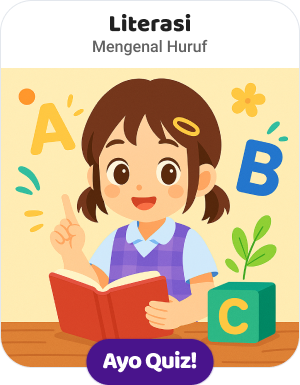
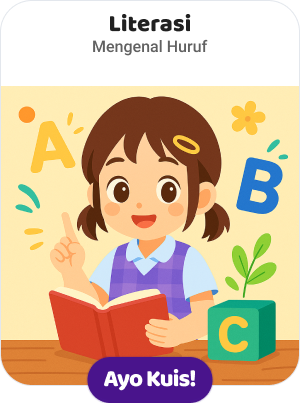
fix: update quiz terminology from "quiz" to "kuis" for consistency

diff --git a/lib/module/quiz/view/quiz_view.dart b/lib/module/quiz/view/quiz_view.dart
@@ -42,8 +42,7 @@ class QuizView extends StatefulWidget {
                       children: [
                         InkWell(
                           onTap: () {
-                            SoundUtils.playSoundWithoutWaiting(
-                                MediaRes.audio.click);
+                            SoundUtils.playSoundWithoutWaiting(MediaRes.audio.click);
                             showDialogBase(
                               maxWidth: 600,
                               barrierDismissible: true,
@@ -58,7 +57,7 @@ class QuizView extends StatefulWidget {
                         ),
                         const Spacer(),
                         Text(
-                          "Quiz!",
+                          "Kuis!",
                           style: GoogleFonts.balsamiqSans(
                             fontSize: 90,
                             fontWeight: FontWeight.bold,
@@ -72,8 +71,7 @@ class QuizView extends StatefulWidget {
                               children: [
                                 InkWell(
                                   onTap: () {
-                                    SoundUtils.playSoundWithoutWaiting(
-                                        MediaRes.audio.click);
+                                    SoundUtils.playSoundWithoutWaiting(MediaRes.audio.click);
                                     showDialogBase(
                                       maxWidth: 1548,
                                       barrierDismissible: true,
@@ -118,8 +116,7 @@ class QuizView extends StatefulWidget {
                                 color: blue700,
                                 width: 1,
                               ),
-                              borderRadius:
-                                  const BorderRadius.all(Radius.circular(12)),
+                              borderRadius: const BorderRadius.all(Radius.circular(12)),
                             ),
                             padding: const EdgeInsets.all(12),
                             child: Center(
@@ -163,10 +160,8 @@ class QuizView extends StatefulWidget {
                               Expanded(
                                 child: _jawaban(
                                   context,
-                                  onTap: () =>
-                                      controller.selectAnswer(answer.jawabanA),
-                                  isSelected:
-                                      controller.isSelected(answer.jawabanA),
+                                  onTap: () => controller.selectAnswer(answer.jawabanA),
+                                  isSelected: controller.isSelected(answer.jawabanA),
                                   value: answer.jawabanA,
                                 ),
                               ),
@@ -174,10 +169,8 @@ class QuizView extends StatefulWidget {
                               Expanded(
                                 child: _jawaban(
                                   context,
-                                  onTap: () =>
-                                      controller.selectAnswer(answer.jawabanB),
-                                  isSelected:
-                                      controller.isSelected(answer.jawabanB),
+                                  onTap: () => controller.selectAnswer(answer.jawabanB),
+                                  isSelected: controller.isSelected(answer.jawabanB),
                                   value: answer.jawabanB,
                                 ),
                               ),
@@ -185,10 +178,8 @@ class QuizView extends StatefulWidget {
                               Expanded(
                                 child: _jawaban(
                                   context,
-                                  onTap: () =>
-                                      controller.selectAnswer(answer.jawabanC),
-                                  isSelected:
-                                      controller.isSelected(answer.jawabanC),
+                                  onTap: () => controller.selectAnswer(answer.jawabanC),
+                                  isSelected: controller.isSelected(answer.jawabanC),
                                   value: answer.jawabanC,
                                 ),
                               ),

diff --git a/lib/module/quiz/utils/quiz_utils.dart b/lib/module/quiz/utils/quiz_utils.dart
@@ -282,7 +282,7 @@ class QuizUtils {
       backsound: MediaRes.audio.soalLiterasi.satu,
       soal: Center(
         child: Text(
-          "Pilihlah gambar yang berawal dari huruf “A” ",
+          "Pilih gambar yang namanya diawali dengan huruf A",
           style: GoogleFonts.baloo2(
             fontSize: 48,
             fontWeight: FontWeight.bold,
@@ -300,7 +300,7 @@ class QuizUtils {
       backsound: MediaRes.audio.soalLiterasi.dua,
       soal: Center(
         child: Text(
-          "Pilih hewan yang suka makan wortel!",
+          "Pilih gambar binatang yang suka makan wortel",
           style: GoogleFonts.baloo2(
             fontSize: 48,
             fontWeight: FontWeight.bold,
@@ -318,7 +318,7 @@ class QuizUtils {
       backsound: MediaRes.audio.soalLiterasi.tiga,
       soal: Center(
         child: Text(
-          "Yang manakah 2 hewan yang hidupnya di air?",
+          "Tunjukkan dua hewan yang hidup di air.",
           style: GoogleFonts.baloo2(
             fontSize: 48,
             fontWeight: FontWeight.bold,
@@ -336,7 +336,7 @@ class QuizUtils {
       backsound: MediaRes.audio.soalLiterasi.empat,
       soal: Center(
         child: Text(
-          "Manakah dari gambar berikut yang menunjukkan  huruf A ?",
+          "Pilih gambar huruf yang mewakili bunyi A",
           style: GoogleFonts.baloo2(
             fontSize: 48,
             fontWeight: FontWeight.bold,
@@ -354,7 +354,7 @@ class QuizUtils {
       backsound: MediaRes.audio.soalLiterasi.lima,
       soal: Center(
         child: Text(
-          "Coba tunjuk huruf 'O' di antara huruf-huruf berikut:",
+          "Pilih gambar huruf yang mewakili bunyi O",
           style: GoogleFonts.baloo2(
             fontSize: 48,
             fontWeight: FontWeight.bold,
@@ -400,7 +400,7 @@ class QuizUtils {
       backsound: MediaRes.audio.soalLiterasi.tujuh,
       soal: Center(
         child: Text(
-          "Gambar mana saja yang namanya dimulai dengan huruf 'S'?",
+          "Gambar apa saja yang namanya diawali dengan huruf “S”?",
           style: GoogleFonts.baloo2(
             fontSize: 48,
             fontWeight: FontWeight.bold,
@@ -420,7 +420,7 @@ class QuizUtils {
         mainAxisAlignment: MainAxisAlignment.center,
         children: [
           Text(
-            "Bunyi huruf  apakah ini?",
+            "Bunyi huruf apakah ini?",
             style: GoogleFonts.baloo2(
               fontSize: 48,
               fontWeight: FontWeight.bold,

diff --git a/lib/module/home/widget/dialog_pilih_quiz.dart b/lib/module/home/widget/dialog_pilih_quiz.dart
@@ -22,7 +22,7 @@ class _DialogPilihQuizState extends State<DialogPilihQuiz> {
       child: Column(
         children: [
           Text(
-            "PILIH QUIZ!",
+            "PILIH KUIS!",
             style: GoogleFonts.baloo2(
               fontSize: 36,
               fontWeight: FontWeight.bold,
@@ -30,7 +30,7 @@ class _DialogPilihQuizState extends State<DialogPilihQuiz> {
             ),
           ),
           Text(
-            "Kamu mau quiz apa hari ini?",
+            "Kamu mau kuis apa hari ini?",
             style: GoogleFonts.baloo2(
               fontSize: 20,
               fontWeight: FontWeight.w400,

diff --git a/lib/module/panduan/view/panduan_view.dart b/lib/module/panduan/view/panduan_view.dart
@@ -109,7 +109,7 @@ class PanduanView extends StatefulWidget {
                               isExpanded: controller.isQuizExpanded,
                               onTap: () => controller.toggleQuizSection(),
                               content: const [
-                                '1. Klik tombol "Ayo Quiz!"',
+                                '1. Klik tombol "Ayo Kuis!"',
                                 '2. Jawab pertanyaan tentang angka, bentuk, dan huruf.',
                                 '3. Pilih jawaban yang benar.',
                                 '4. Hasil akan langsung muncul setelah selesai.',
